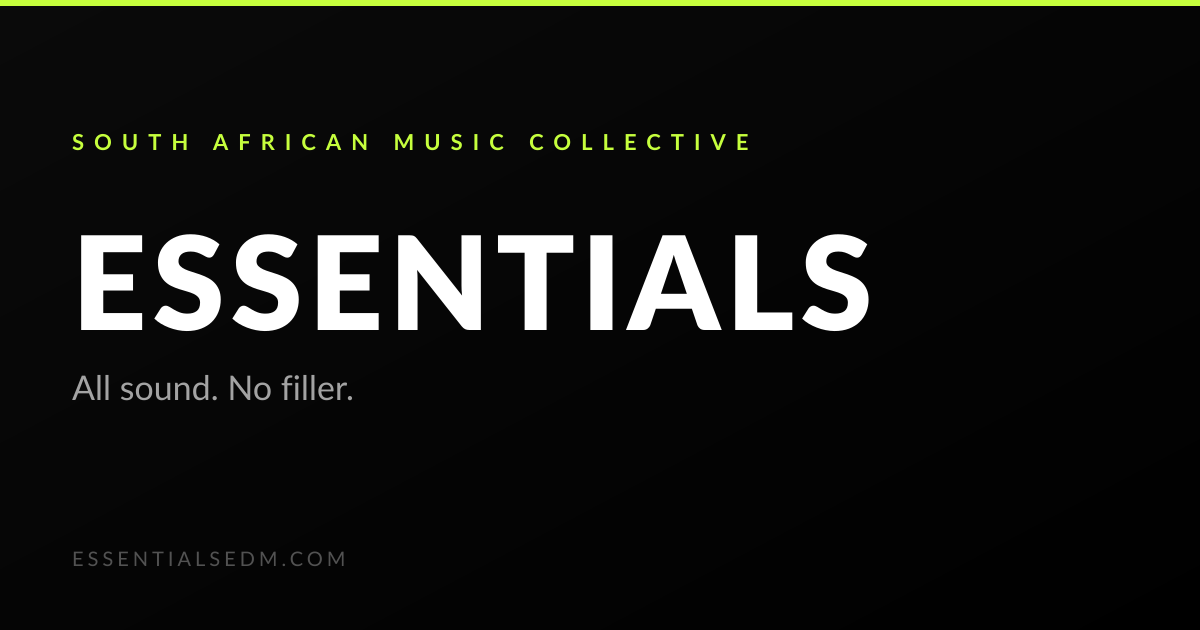
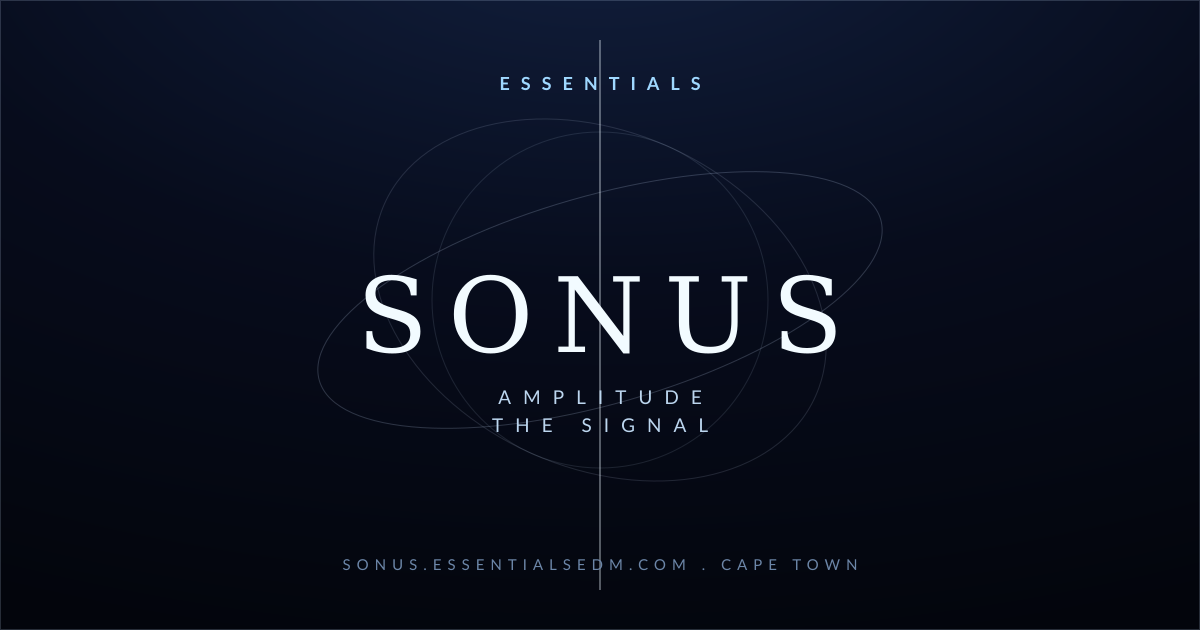
feat(site): lead every title and share card with SONUS
The public site still announced ESSENTIALS everywhere a crawler or a chat client
looks: the document title, og:title, og:site_name, the manifest name and the
brand card that unfurls when no page claims the route. All of them now lead with
SONUS, with ESSENTIALS kept as the micro label at the top of the hero rather than
the headline.

The event and DJ share cards are redrawn to match: the navy ground, thin hairlines
and ice type of the front page replace the black panel with the neon bar, and the
wordmark above the title is SONUS. The card is otherwise unchanged — same layout,
same wrapping, same 1200x630 crop.

🤖 Generated with Codebuff

diff --git a/apps/api/src/site/share.service.ts b/apps/api/src/site/share.service.ts
@@ -67,15 +67,22 @@ export class ShareService {
 
     const svg = `<svg xmlns="http://www.w3.org/2000/svg" width="${WIDTH}" height="${HEIGHT}" viewBox="0 0 ${WIDTH} ${HEIGHT}">
   <defs>
-    <linearGradient id="fade" x1="0" y1="0" x2="0" y2="1">
-      <stop offset="0%" stop-color="#0a0a0a"/>
-      <stop offset="100%" stop-color="#000000"/>
-    </linearGradient>
+    <radialGradient id="space" cx="50%" cy="-10%" r="115%">
+      <stop offset="0%" stop-color="#0d1838"/>
+      <stop offset="52%" stop-color="#070c1c"/>
+      <stop offset="100%" stop-color="#03050c"/>
+    </radialGradient>
   </defs>
-  <rect width="${WIDTH}" height="${HEIGHT}" fill="url(#fade)"/>
-  <rect x="0" y="0" width="${WIDTH}" height="6" fill="#c6ff3d"/>
-  <text x="72" y="96" fill="#c6ff3d" font-family="Lato, DejaVu Sans, sans-serif" font-size="22" letter-spacing="8" font-weight="700">${esc(eyebrow)}</text>
-  <text x="72" y="150" fill="#f5f5f5" font-family="Lato, DejaVu Sans, sans-serif" font-size="30" letter-spacing="14" font-weight="700">ESSENTIALS</text>
+  <rect width="${WIDTH}" height="${HEIGHT}" fill="url(#space)"/>
+  <!-- The ringed orb from the front page, ghosted so the type stays legible. -->
+  <g fill="none" stroke="#cfe3ff">
+    <circle cx="1012" cy="198" r="150" stroke-opacity="0.10"/>
+    <ellipse cx="1012" cy="198" rx="262" ry="94" transform="rotate(-16 1012 198)" stroke-opacity="0.16"/>
+    <ellipse cx="1012" cy="198" rx="212" ry="150" transform="rotate(24 1012 198)" stroke-opacity="0.12"/>
+  </g>
+  <rect x="0.5" y="0.5" width="${WIDTH - 1}" height="${HEIGHT - 1}" fill="none" stroke="#cfe3ff" stroke-opacity="0.16"/>
+  <text x="72" y="96" fill="#9fd8ff" font-family="Lato, DejaVu Sans, sans-serif" font-size="22" letter-spacing="8" font-weight="700">${esc(eyebrow)}</text>
+  <text x="72" y="154" fill="#eaf6ff" font-family="DejaVu Serif, Georgia, serif" font-size="26" letter-spacing="13">SONUS</text>
 ${titleLines
   .map(
     (line, i) =>
@@ -85,10 +92,10 @@ ${titleLines
 ${metaLines
   .map(
     (line, i) =>
-      `  <text x="72" y="${metaTop + i * 42}" fill="#a3a3a3" font-family="Lato, DejaVu Sans, sans-serif" font-size="28">${esc(line)}</text>`,
+      `  <text x="72" y="${metaTop + i * 42}" fill="#9dbbdd" font-family="Lato, DejaVu Sans, sans-serif" font-size="28">${esc(line)}</text>`,
   )
   .join("\n")}
-  <text x="72" y="${HEIGHT - 56}" fill="#525252" font-family="Lato, DejaVu Sans, sans-serif" font-size="20" letter-spacing="4">${esc(footer)}</text>
+  <text x="72" y="${HEIGHT - 56}" fill="#6c86a8" font-family="Lato, DejaVu Sans, sans-serif" font-size="20" letter-spacing="4">${esc(footer)}</text>
 </svg>`;
 
     return sharp(Buffer.from(svg)).png({ compressionLevel: 9 }).toBuffer();
@@ -135,7 +142,7 @@ ${metaLines
     if (!dj) throw new NotFoundException("DJ not found");
 
     return this.card({
-      eyebrow: "ESSENTIALS ROSTER",
+      eyebrow: "SONUS ROSTER",
       title: dj.stageName,
       meta: [(dj.bio ?? "").slice(0, 90)].filter(Boolean),
       footer: `${siteUrl()}/djs/${id}`,

diff --git a/apps/site/index.html b/apps/site/index.html
@@ -10,14 +10,14 @@
     <meta name="mobile-web-app-capable" content="yes" />
     <meta name="apple-mobile-web-app-capable" content="yes" />
     <meta name="apple-mobile-web-app-status-bar-style" content="black-translucent" />
-    <meta name="apple-mobile-web-app-title" content="ESSENTIALS" />
-    <meta name="application-name" content="ESSENTIALS" />
+    <meta name="apple-mobile-web-app-title" content="SONUS" />
+    <meta name="application-name" content="SONUS" />
     <link rel="manifest" href="/manifest.json" />
-    <meta name="description" content="ESSENTIALS — a South African music events collective. Underground rooms, real sound systems, lineups built for the floor." />
-    <meta property="og:title" content="ESSENTIALS — Music Events" />
+    <meta name="description" content="SONUS — a South African music events collective. Underground rooms, real sound systems, lineups built for the floor." />
+    <meta property="og:title" content="SONUS — Music Events" />
     <meta property="og:description" content="All sound. No filler. Warehouse parties, club nights and open-format sessions across South Africa." />
     <meta property="og:type" content="website" />
-    <meta property="og:site_name" content="ESSENTIALS" />
+    <meta property="og:site_name" content="SONUS" />
     <meta property="og:url" content="https://sonus.essentialsedm.com/" />
     <!-- Replaced per page by src/lib/share.js; this is the brand card a crawler
          gets before any JavaScript runs. -->
@@ -25,9 +25,11 @@
     <meta property="og:image:width" content="1200" />
     <meta property="og:image:height" content="630" />
     <meta name="twitter:card" content="summary_large_image" />
+    <meta name="twitter:title" content="SONUS — Music Events" />
+    <meta name="twitter:description" content="All sound. No filler. Warehouse parties, club nights and open-format sessions across South Africa." />
     <meta name="twitter:image" content="https://sonus.essentialsedm.com/og-default.png" />
     <link rel="canonical" href="https://sonus.essentialsedm.com/" />
-    <title>ESSENTIALS — Music Events</title>
+    <title>SONUS — Music Events</title>
   </head>
   <body>
     <div id="root"></div>

diff --git a/apps/site/src/lib/share.js b/apps/site/src/lib/share.js
@@ -3,9 +3,9 @@ import { SITE_URL } from "@/lib/apiBase";
 const SITE = SITE_URL;
 
 const DEFAULTS = {
-  title: "ESSENTIALS — Music Events",
+  title: "SONUS — Music Events",
   description:
-    "ESSENTIALS — a South African music events collective. Underground rooms, real sound systems, lineups built for the floor.",
+    "SONUS — a South African music events collective. Underground rooms, real sound systems, lineups built for the floor.",
   image: `${SITE}/og-default.png`,
   path: "/",
 };
@@ -46,7 +46,7 @@ function upsertCanonical(href) {
  */
 export function setPageMeta({ title, description, image, path, type = "website" } = {}) {
   const resolved = {
-    title: title ? `${limit(title, 70)} · ESSENTIALS` : DEFAULTS.title,
+    title: title ? `${limit(title, 70)} · SONUS` : DEFAULTS.title,
     description: limit(description || DEFAULTS.description, 200),
     image: image || DEFAULTS.image,
     url: `${SITE}${path ?? DEFAULTS.path}`,
@@ -55,7 +55,7 @@ export function setPageMeta({ title, description, image, path, type = "website" 
   document.title = resolved.title;
   upsertMeta("name", "description", resolved.description);
 
-  upsertMeta("property", "og:site_name", "ESSENTIALS");
+  upsertMeta("property", "og:site_name", "SONUS");
   upsertMeta("property", "og:type", type);
   upsertMeta("property", "og:title", resolved.title);
   upsertMeta("property", "og:description", resolved.description);

diff --git a/apps/site/src/pages/Events.jsx b/apps/site/src/pages/Events.jsx
@@ -23,7 +23,7 @@ export default function Events() {
     setPageMeta({
       title: "Events",
       description:
-        "Every announced ESSENTIALS night: warehouse parties, club nights and open-format sessions across South Africa.",
+        "Every announced SONUS night: warehouse parties, club nights and open-format sessions across South Africa.",
       path: "/events",
     });
   }, []);
